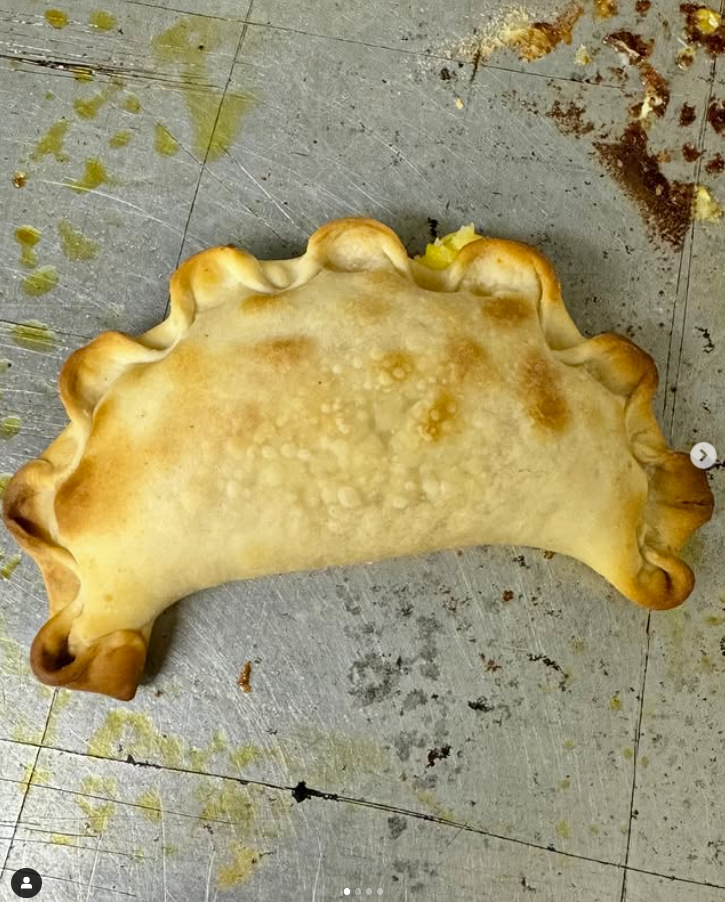
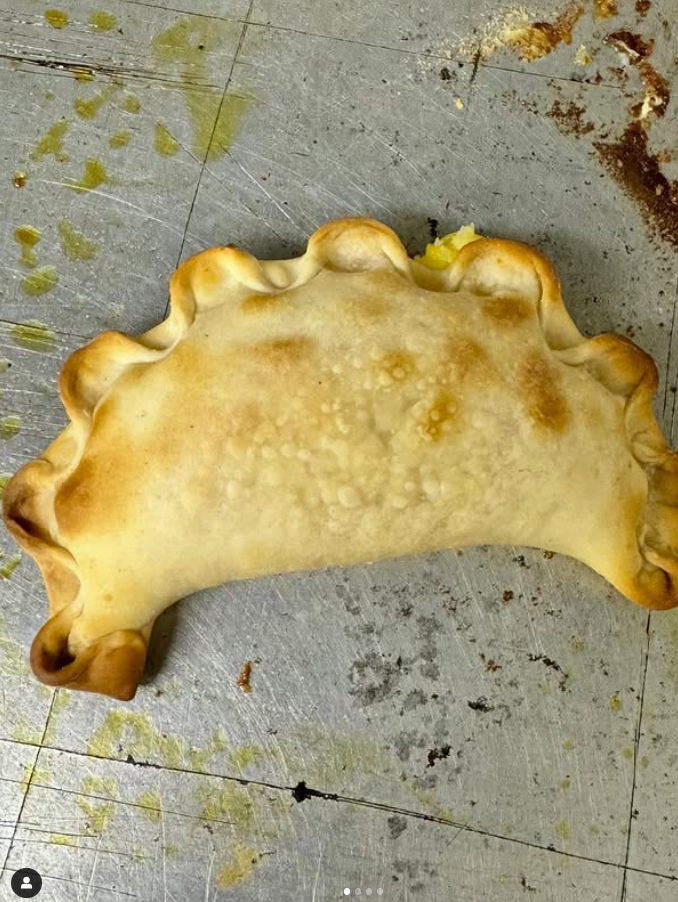
ajustes finales

diff --git a/templates/home.html b/templates/home.html
@@ -19,11 +19,10 @@
         <a href="/votar" class="vote-button">Vote for your favorite flavor 🥟</a>
 
         <div class="gallery-home">
-            <img src="{{ url_for('static', filename='images/home/Tienda-packs.PNG') }}" alt="Packs">
+            <img src="{{ url_for('static', filename='images/home/Tienda-packs.PNG') }}">
             <img src="{{ url_for('static', filename='images/home/Cooking-Empanadas(1).PNG') }}">
-            <img src="{{ url_for('static', filename='images/home/Empa(1).PNG') }}" ">
-            <img src="{{ url_for('static', filename='images/home/Pastalinda(1).PNG') }}" ">
-            <img src="{{ url_for('static', filename='images/home/Hands-and-passions.PNG') }}>
+            <img src="{{ url_for('static', filename='images/home/Empa(1).PNG') }}">
+            <img src="{{ url_for('static', filename='images/home/Pastalinda(1).PNG') }}">
         </div>
     </div>
 </body>

diff --git a/static/style.css b/static/style.css
@@ -123,8 +123,8 @@ a {
 }
 
 .gallery-home img {
-    width: 420px;
-    height: 420px;
+    width: 320px;
+    height: 320px;
     object-fit: cover;
     border-radius: 14px;
     box-shadow: 0 4px 10px rgba(0,0,0,0.2);
